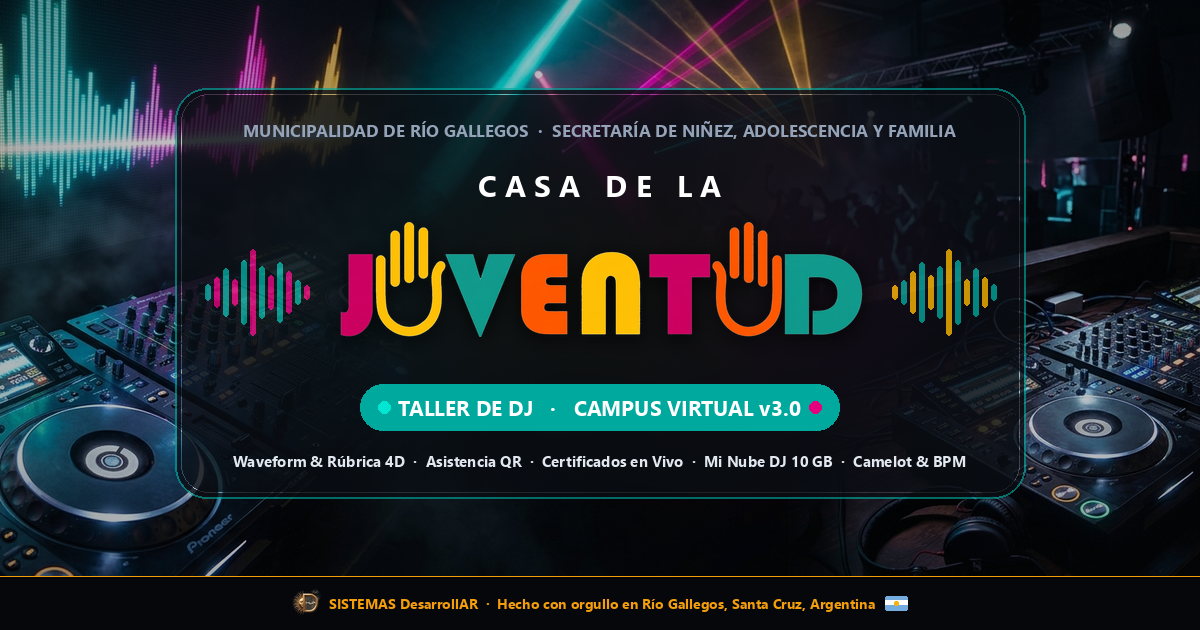
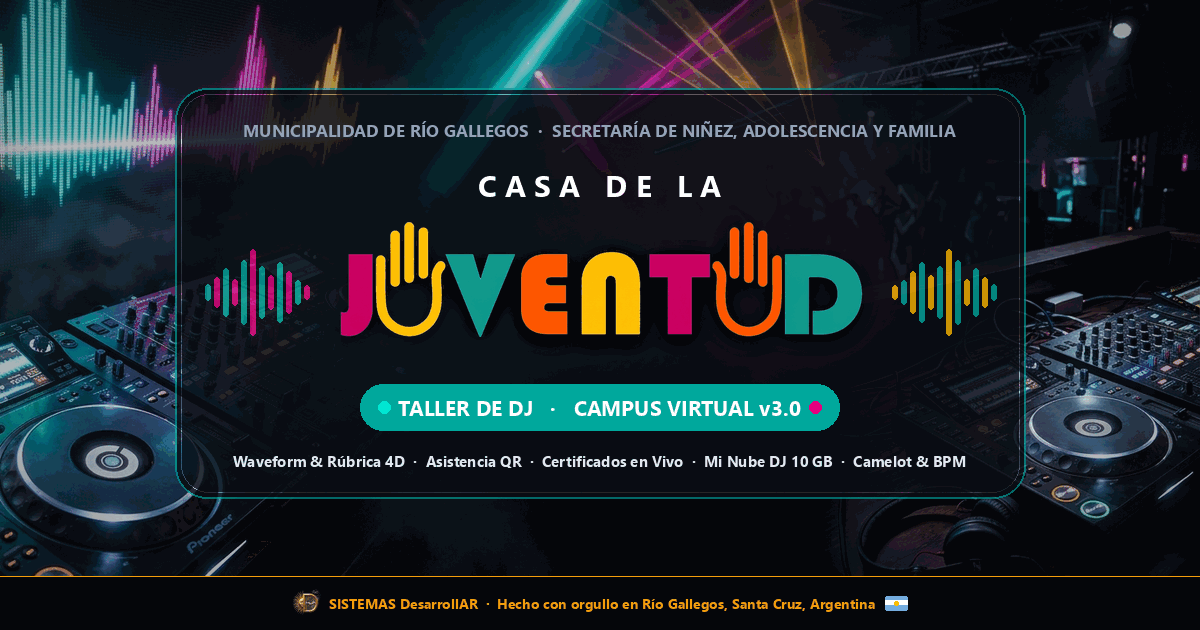
fix(og): compress og-whatsapp-campus.jpg to 126KB under WhatsApp 300KB limit

diff --git a/campus.html b/campus.html
@@ -10,15 +10,16 @@
 <meta property="og:title" content="🎧 Campus Virtual v3.0 · Taller de DJ — Casa de la Juventud">
 <meta property="og:description" content="Plataforma LMS con Waveform & Rúbrica 4D, Asistencia QR en vivo, Certificados Oficiales, Mi Nube DJ (10 GB) y Rueda de Camelot.">
 <meta property="og:url" content="https://cursodj.desarrollar.online/campus">
-<meta property="og:image" content="https://cursodj.desarrollar.online/og-whatsapp-campus.png">
-<meta property="og:image:secure_url" content="https://cursodj.desarrollar.online/og-whatsapp-campus.png">
-<meta property="og:image:type" content="image/png">
+<meta property="og:image" content="https://cursodj.desarrollar.online/og-whatsapp-campus.jpg">
+<meta property="og:image:secure_url" content="https://cursodj.desarrollar.online/og-whatsapp-campus.jpg">
+<meta property="og:image:type" content="image/jpeg">
 <meta property="og:image:width" content="1200">
 <meta property="og:image:height" content="630">
+<link rel="image_src" href="https://cursodj.desarrollar.online/og-whatsapp-campus.jpg">
 <meta name="twitter:card" content="summary_large_image">
 <meta name="twitter:title" content="🎧 Campus Virtual v3.0 · Taller de DJ — Casa de la Juventud">
 <meta name="twitter:description" content="Plataforma LMS con Waveform & Rúbrica 4D, Asistencia QR en vivo, Certificados Oficiales, Mi Nube DJ (10 GB) y Rueda de Camelot.">
-<meta name="twitter:image" content="https://cursodj.desarrollar.online/og-whatsapp-campus.png">
+<meta name="twitter:image" content="https://cursodj.desarrollar.online/og-whatsapp-campus.jpg">
 <script src="https://cdn.tailwindcss.com"></script>
 <link href="https://fonts.googleapis.com/css2?family=Fredoka:wght@500;600;700&family=Outfit:wght@300;400;500;600;800&family=JetBrains+Mono&display=swap" rel="stylesheet">
 <style>

diff --git a/docs/campus.html b/docs/campus.html
@@ -10,15 +10,16 @@
 <meta property="og:title" content="🎧 Campus Virtual v3.0 · Taller de DJ — Casa de la Juventud">
 <meta property="og:description" content="Plataforma LMS con Waveform & Rúbrica 4D, Asistencia QR en vivo, Certificados Oficiales, Mi Nube DJ (10 GB) y Rueda de Camelot.">
 <meta property="og:url" content="https://cursodj.desarrollar.online/campus">
-<meta property="og:image" content="https://cursodj.desarrollar.online/og-whatsapp-campus.png">
-<meta property="og:image:secure_url" content="https://cursodj.desarrollar.online/og-whatsapp-campus.png">
-<meta property="og:image:type" content="image/png">
+<meta property="og:image" content="https://cursodj.desarrollar.online/og-whatsapp-campus.jpg">
+<meta property="og:image:secure_url" content="https://cursodj.desarrollar.online/og-whatsapp-campus.jpg">
+<meta property="og:image:type" content="image/jpeg">
 <meta property="og:image:width" content="1200">
 <meta property="og:image:height" content="630">
+<link rel="image_src" href="https://cursodj.desarrollar.online/og-whatsapp-campus.jpg">
 <meta name="twitter:card" content="summary_large_image">
 <meta name="twitter:title" content="🎧 Campus Virtual v3.0 · Taller de DJ — Casa de la Juventud">
 <meta name="twitter:description" content="Plataforma LMS con Waveform & Rúbrica 4D, Asistencia QR en vivo, Certificados Oficiales, Mi Nube DJ (10 GB) y Rueda de Camelot.">
-<meta name="twitter:image" content="https://cursodj.desarrollar.online/og-whatsapp-campus.png">
+<meta name="twitter:image" content="https://cursodj.desarrollar.online/og-whatsapp-campus.jpg">
 <script src="https://cdn.tailwindcss.com"></script>
 <link href="https://fonts.googleapis.com/css2?family=Fredoka:wght@500;600;700&family=Outfit:wght@300;400;500;600;800&family=JetBrains+Mono&display=swap" rel="stylesheet">
 <style>

diff --git a/public/campus.html b/public/campus.html
@@ -10,15 +10,16 @@
 <meta property="og:title" content="🎧 Campus Virtual v3.0 · Taller de DJ — Casa de la Juventud">
 <meta property="og:description" content="Plataforma LMS con Waveform & Rúbrica 4D, Asistencia QR en vivo, Certificados Oficiales, Mi Nube DJ (10 GB) y Rueda de Camelot.">
 <meta property="og:url" content="https://cursodj.desarrollar.online/campus">
-<meta property="og:image" content="https://cursodj.desarrollar.online/og-whatsapp-campus.png">
-<meta property="og:image:secure_url" content="https://cursodj.desarrollar.online/og-whatsapp-campus.png">
-<meta property="og:image:type" content="image/png">
+<meta property="og:image" content="https://cursodj.desarrollar.online/og-whatsapp-campus.jpg">
+<meta property="og:image:secure_url" content="https://cursodj.desarrollar.online/og-whatsapp-campus.jpg">
+<meta property="og:image:type" content="image/jpeg">
 <meta property="og:image:width" content="1200">
 <meta property="og:image:height" content="630">
+<link rel="image_src" href="https://cursodj.desarrollar.online/og-whatsapp-campus.jpg">
 <meta name="twitter:card" content="summary_large_image">
 <meta name="twitter:title" content="🎧 Campus Virtual v3.0 · Taller de DJ — Casa de la Juventud">
 <meta name="twitter:description" content="Plataforma LMS con Waveform & Rúbrica 4D, Asistencia QR en vivo, Certificados Oficiales, Mi Nube DJ (10 GB) y Rueda de Camelot.">
-<meta name="twitter:image" content="https://cursodj.desarrollar.online/og-whatsapp-campus.png">
+<meta name="twitter:image" content="https://cursodj.desarrollar.online/og-whatsapp-campus.jpg">
 <script src="https://cdn.tailwindcss.com"></script>
 <link href="https://fonts.googleapis.com/css2?family=Fredoka:wght@500;600;700&family=Outfit:wght@300;400;500;600;800&family=JetBrains+Mono&display=swap" rel="stylesheet">
 <style>

diff --git a/publish/campus.html b/publish/campus.html
@@ -10,15 +10,16 @@
 <meta property="og:title" content="🎧 Campus Virtual v3.0 · Taller de DJ — Casa de la Juventud">
 <meta property="og:description" content="Plataforma LMS con Waveform & Rúbrica 4D, Asistencia QR en vivo, Certificados Oficiales, Mi Nube DJ (10 GB) y Rueda de Camelot.">
 <meta property="og:url" content="https://cursodj.desarrollar.online/campus">
-<meta property="og:image" content="https://cursodj.desarrollar.online/og-whatsapp-campus.png">
-<meta property="og:image:secure_url" content="https://cursodj.desarrollar.online/og-whatsapp-campus.png">
-<meta property="og:image:type" content="image/png">
+<meta property="og:image" content="https://cursodj.desarrollar.online/og-whatsapp-campus.jpg">
+<meta property="og:image:secure_url" content="https://cursodj.desarrollar.online/og-whatsapp-campus.jpg">
+<meta property="og:image:type" content="image/jpeg">
 <meta property="og:image:width" content="1200">
 <meta property="og:image:height" content="630">
+<link rel="image_src" href="https://cursodj.desarrollar.online/og-whatsapp-campus.jpg">
 <meta name="twitter:card" content="summary_large_image">
 <meta name="twitter:title" content="🎧 Campus Virtual v3.0 · Taller de DJ — Casa de la Juventud">
 <meta name="twitter:description" content="Plataforma LMS con Waveform & Rúbrica 4D, Asistencia QR en vivo, Certificados Oficiales, Mi Nube DJ (10 GB) y Rueda de Camelot.">
-<meta name="twitter:image" content="https://cursodj.desarrollar.online/og-whatsapp-campus.png">
+<meta name="twitter:image" content="https://cursodj.desarrollar.online/og-whatsapp-campus.jpg">
 <script src="https://cdn.tailwindcss.com"></script>
 <link href="https://fonts.googleapis.com/css2?family=Fredoka:wght@500;600;700&family=Outfit:wght@300;400;500;600;800&family=JetBrains+Mono&display=swap" rel="stylesheet">
 <style>

diff --git a/docs/index.html b/docs/index.html
@@ -10,15 +10,16 @@
 <meta property="og:title" content="🎧 Taller de DJ · Casa de la Juventud — Río Gallegos">
 <meta property="og:description" content="Formación gratuita en mezcla digital, técnica y criterio musical + Campus Virtual Universitario v3.0.">
 <meta property="og:url" content="https://cursodj.desarrollar.online">
-<meta property="og:image" content="https://cursodj.desarrollar.online/og-whatsapp-campus.png">
-<meta property="og:image:secure_url" content="https://cursodj.desarrollar.online/og-whatsapp-campus.png">
-<meta property="og:image:type" content="image/png">
+<meta property="og:image" content="https://cursodj.desarrollar.online/og-whatsapp-campus.jpg">
+<meta property="og:image:secure_url" content="https://cursodj.desarrollar.online/og-whatsapp-campus.jpg">
+<meta property="og:image:type" content="image/jpeg">
 <meta property="og:image:width" content="1200">
 <meta property="og:image:height" content="630">
+<link rel="image_src" href="https://cursodj.desarrollar.online/og-whatsapp-campus.jpg">
 <meta name="twitter:card" content="summary_large_image">
 <meta name="twitter:title" content="🎧 Taller de DJ · Casa de la Juventud — Río Gallegos">
 <meta name="twitter:description" content="Formación gratuita en mezcla digital, técnica y criterio musical + Campus Virtual Universitario v3.0.">
-<meta name="twitter:image" content="https://cursodj.desarrollar.online/og-whatsapp-campus.png">
+<meta name="twitter:image" content="https://cursodj.desarrollar.online/og-whatsapp-campus.jpg">
 <script src="https://cdn.tailwindcss.com"></script>
 <script src="https://cdn.jsdelivr.net/npm/chart.js"></script>
 <link href="https://fonts.googleapis.com/css2?family=Bebas+Neue&family=Fredoka:wght@500;600;700&family=Outfit:wght@300;400;600;800&family=JetBrains+Mono&display=swap" rel="stylesheet">

diff --git a/index.html b/index.html
@@ -10,15 +10,16 @@
 <meta property="og:title" content="🎧 Taller de DJ · Casa de la Juventud — Río Gallegos">
 <meta property="og:description" content="Formación gratuita en mezcla digital, técnica y criterio musical + Campus Virtual Universitario v3.0.">
 <meta property="og:url" content="https://cursodj.desarrollar.online">
-<meta property="og:image" content="https://cursodj.desarrollar.online/og-whatsapp-campus.png">
-<meta property="og:image:secure_url" content="https://cursodj.desarrollar.online/og-whatsapp-campus.png">
-<meta property="og:image:type" content="image/png">
+<meta property="og:image" content="https://cursodj.desarrollar.online/og-whatsapp-campus.jpg">
+<meta property="og:image:secure_url" content="https://cursodj.desarrollar.online/og-whatsapp-campus.jpg">
+<meta property="og:image:type" content="image/jpeg">
 <meta property="og:image:width" content="1200">
 <meta property="og:image:height" content="630">
+<link rel="image_src" href="https://cursodj.desarrollar.online/og-whatsapp-campus.jpg">
 <meta name="twitter:card" content="summary_large_image">
 <meta name="twitter:title" content="🎧 Taller de DJ · Casa de la Juventud — Río Gallegos">
 <meta name="twitter:description" content="Formación gratuita en mezcla digital, técnica y criterio musical + Campus Virtual Universitario v3.0.">
-<meta name="twitter:image" content="https://cursodj.desarrollar.online/og-whatsapp-campus.png">
+<meta name="twitter:image" content="https://cursodj.desarrollar.online/og-whatsapp-campus.jpg">
 <script src="https://cdn.tailwindcss.com"></script>
 <script src="https://cdn.jsdelivr.net/npm/chart.js"></script>
 <link href="https://fonts.googleapis.com/css2?family=Bebas+Neue&family=Fredoka:wght@500;600;700&family=Outfit:wght@300;400;600;800&family=JetBrains+Mono&display=swap" rel="stylesheet">

diff --git a/public/index.html b/public/index.html
@@ -10,15 +10,16 @@
 <meta property="og:title" content="🎧 Taller de DJ · Casa de la Juventud — Río Gallegos">
 <meta property="og:description" content="Formación gratuita en mezcla digital, técnica y criterio musical + Campus Virtual Universitario v3.0.">
 <meta property="og:url" content="https://cursodj.desarrollar.online">
-<meta property="og:image" content="https://cursodj.desarrollar.online/og-whatsapp-campus.png">
-<meta property="og:image:secure_url" content="https://cursodj.desarrollar.online/og-whatsapp-campus.png">
-<meta property="og:image:type" content="image/png">
+<meta property="og:image" content="https://cursodj.desarrollar.online/og-whatsapp-campus.jpg">
+<meta property="og:image:secure_url" content="https://cursodj.desarrollar.online/og-whatsapp-campus.jpg">
+<meta property="og:image:type" content="image/jpeg">
 <meta property="og:image:width" content="1200">
 <meta property="og:image:height" content="630">
+<link rel="image_src" href="https://cursodj.desarrollar.online/og-whatsapp-campus.jpg">
 <meta name="twitter:card" content="summary_large_image">
 <meta name="twitter:title" content="🎧 Taller de DJ · Casa de la Juventud — Río Gallegos">
 <meta name="twitter:description" content="Formación gratuita en mezcla digital, técnica y criterio musical + Campus Virtual Universitario v3.0.">
-<meta name="twitter:image" content="https://cursodj.desarrollar.online/og-whatsapp-campus.png">
+<meta name="twitter:image" content="https://cursodj.desarrollar.online/og-whatsapp-campus.jpg">
 <script src="https://cdn.tailwindcss.com"></script>
 <script src="https://cdn.jsdelivr.net/npm/chart.js"></script>
 <link href="https://fonts.googleapis.com/css2?family=Bebas+Neue&family=Fredoka:wght@500;600;700&family=Outfit:wght@300;400;600;800&family=JetBrains+Mono&display=swap" rel="stylesheet">

diff --git a/publish/index.html b/publish/index.html
@@ -10,15 +10,16 @@
 <meta property="og:title" content="🎧 Taller de DJ · Casa de la Juventud — Río Gallegos">
 <meta property="og:description" content="Formación gratuita en mezcla digital, técnica y criterio musical + Campus Virtual Universitario v3.0.">
 <meta property="og:url" content="https://cursodj.desarrollar.online">
-<meta property="og:image" content="https://cursodj.desarrollar.online/og-whatsapp-campus.png">
-<meta property="og:image:secure_url" content="https://cursodj.desarrollar.online/og-whatsapp-campus.png">
-<meta property="og:image:type" content="image/png">
+<meta property="og:image" content="https://cursodj.desarrollar.online/og-whatsapp-campus.jpg">
+<meta property="og:image:secure_url" content="https://cursodj.desarrollar.online/og-whatsapp-campus.jpg">
+<meta property="og:image:type" content="image/jpeg">
 <meta property="og:image:width" content="1200">
 <meta property="og:image:height" content="630">
+<link rel="image_src" href="https://cursodj.desarrollar.online/og-whatsapp-campus.jpg">
 <meta name="twitter:card" content="summary_large_image">
 <meta name="twitter:title" content="🎧 Taller de DJ · Casa de la Juventud — Río Gallegos">
 <meta name="twitter:description" content="Formación gratuita en mezcla digital, técnica y criterio musical + Campus Virtual Universitario v3.0.">
-<meta name="twitter:image" content="https://cursodj.desarrollar.online/og-whatsapp-campus.png">
+<meta name="twitter:image" content="https://cursodj.desarrollar.online/og-whatsapp-campus.jpg">
 <script src="https://cdn.tailwindcss.com"></script>
 <script src="https://cdn.jsdelivr.net/npm/chart.js"></script>
 <link href="https://fonts.googleapis.com/css2?family=Bebas+Neue&family=Fredoka:wght@500;600;700&family=Outfit:wght@300;400;600;800&family=JetBrains+Mono&display=swap" rel="stylesheet">

diff --git a/docs/verificar.html b/docs/verificar.html
@@ -4,6 +4,19 @@
 <meta charset="UTF-8">
 <meta name="viewport" content="width=device-width, initial-scale=1.0">
 <title>Verificación Oficial de Certificados · Taller de DJ · Río Gallegos</title>
+<meta property="og:type" content="website">
+<meta property="og:site_name" content="Casa de la Juventud · Municipalidad de Río Gallegos">
+<meta property="og:title" content="🎧 Campus Virtual v3.0 · Taller de DJ — Casa de la Juventud">
+<meta property="og:description" content="Plataforma LMS con Waveform & Rúbrica 4D, Asistencia QR en vivo, Certificados Oficiales, Mi Nube DJ (10 GB) y Rueda de Camelot.">
+<meta property="og:url" content="https://cursodj.desarrollar.online/campus">
+<meta property="og:image" content="https://cursodj.desarrollar.online/og-whatsapp-campus.jpg">
+<meta property="og:image:secure_url" content="https://cursodj.desarrollar.online/og-whatsapp-campus.jpg">
+<meta property="og:image:type" content="image/jpeg">
+<meta property="og:image:width" content="1200">
+<meta property="og:image:height" content="630">
+<link rel="image_src" href="https://cursodj.desarrollar.online/og-whatsapp-campus.jpg">
+<meta name="twitter:card" content="summary_large_image">
+<meta name="twitter:image" content="https://cursodj.desarrollar.online/og-whatsapp-campus.jpg">
 <script src="https://cdn.tailwindcss.com"></script>
 <link href="https://fonts.googleapis.com/css2?family=Bebas+Neue&family=Fredoka:wght@500;600;700&family=Outfit:wght@300;400;500;600;700;800&family=JetBrains+Mono:wght@400;600&display=swap" rel="stylesheet">
 <style>

diff --git a/public/verificar.html b/public/verificar.html
@@ -4,6 +4,19 @@
 <meta charset="UTF-8">
 <meta name="viewport" content="width=device-width, initial-scale=1.0">
 <title>Verificación Oficial de Certificados · Taller de DJ · Río Gallegos</title>
+<meta property="og:type" content="website">
+<meta property="og:site_name" content="Casa de la Juventud · Municipalidad de Río Gallegos">
+<meta property="og:title" content="🎧 Campus Virtual v3.0 · Taller de DJ — Casa de la Juventud">
+<meta property="og:description" content="Plataforma LMS con Waveform & Rúbrica 4D, Asistencia QR en vivo, Certificados Oficiales, Mi Nube DJ (10 GB) y Rueda de Camelot.">
+<meta property="og:url" content="https://cursodj.desarrollar.online/campus">
+<meta property="og:image" content="https://cursodj.desarrollar.online/og-whatsapp-campus.jpg">
+<meta property="og:image:secure_url" content="https://cursodj.desarrollar.online/og-whatsapp-campus.jpg">
+<meta property="og:image:type" content="image/jpeg">
+<meta property="og:image:width" content="1200">
+<meta property="og:image:height" content="630">
+<link rel="image_src" href="https://cursodj.desarrollar.online/og-whatsapp-campus.jpg">
+<meta name="twitter:card" content="summary_large_image">
+<meta name="twitter:image" content="https://cursodj.desarrollar.online/og-whatsapp-campus.jpg">
 <script src="https://cdn.tailwindcss.com"></script>
 <link href="https://fonts.googleapis.com/css2?family=Bebas+Neue&family=Fredoka:wght@500;600;700&family=Outfit:wght@300;400;500;600;700;800&family=JetBrains+Mono:wght@400;600&display=swap" rel="stylesheet">
 <style>

diff --git a/publish/verificar.html b/publish/verificar.html
@@ -4,6 +4,19 @@
 <meta charset="UTF-8">
 <meta name="viewport" content="width=device-width, initial-scale=1.0">
 <title>Verificación Oficial de Certificados · Taller de DJ · Río Gallegos</title>
+<meta property="og:type" content="website">
+<meta property="og:site_name" content="Casa de la Juventud · Municipalidad de Río Gallegos">
+<meta property="og:title" content="🎧 Campus Virtual v3.0 · Taller de DJ — Casa de la Juventud">
+<meta property="og:description" content="Plataforma LMS con Waveform & Rúbrica 4D, Asistencia QR en vivo, Certificados Oficiales, Mi Nube DJ (10 GB) y Rueda de Camelot.">
+<meta property="og:url" content="https://cursodj.desarrollar.online/campus">
+<meta property="og:image" content="https://cursodj.desarrollar.online/og-whatsapp-campus.jpg">
+<meta property="og:image:secure_url" content="https://cursodj.desarrollar.online/og-whatsapp-campus.jpg">
+<meta property="og:image:type" content="image/jpeg">
+<meta property="og:image:width" content="1200">
+<meta property="og:image:height" content="630">
+<link rel="image_src" href="https://cursodj.desarrollar.online/og-whatsapp-campus.jpg">
+<meta name="twitter:card" content="summary_large_image">
+<meta name="twitter:image" content="https://cursodj.desarrollar.online/og-whatsapp-campus.jpg">
 <script src="https://cdn.tailwindcss.com"></script>
 <link href="https://fonts.googleapis.com/css2?family=Bebas+Neue&family=Fredoka:wght@500;600;700&family=Outfit:wght@300;400;500;600;700;800&family=JetBrains+Mono:wght@400;600&display=swap" rel="stylesheet">
 <style>

diff --git a/verificar.html b/verificar.html
@@ -4,6 +4,19 @@
 <meta charset="UTF-8">
 <meta name="viewport" content="width=device-width, initial-scale=1.0">
 <title>Verificación Oficial de Certificados · Taller de DJ · Río Gallegos</title>
+<meta property="og:type" content="website">
+<meta property="og:site_name" content="Casa de la Juventud · Municipalidad de Río Gallegos">
+<meta property="og:title" content="🎧 Campus Virtual v3.0 · Taller de DJ — Casa de la Juventud">
+<meta property="og:description" content="Plataforma LMS con Waveform & Rúbrica 4D, Asistencia QR en vivo, Certificados Oficiales, Mi Nube DJ (10 GB) y Rueda de Camelot.">
+<meta property="og:url" content="https://cursodj.desarrollar.online/campus">
+<meta property="og:image" content="https://cursodj.desarrollar.online/og-whatsapp-campus.jpg">
+<meta property="og:image:secure_url" content="https://cursodj.desarrollar.online/og-whatsapp-campus.jpg">
+<meta property="og:image:type" content="image/jpeg">
+<meta property="og:image:width" content="1200">
+<meta property="og:image:height" content="630">
+<link rel="image_src" href="https://cursodj.desarrollar.online/og-whatsapp-campus.jpg">
+<meta name="twitter:card" content="summary_large_image">
+<meta name="twitter:image" content="https://cursodj.desarrollar.online/og-whatsapp-campus.jpg">
 <script src="https://cdn.tailwindcss.com"></script>
 <link href="https://fonts.googleapis.com/css2?family=Bebas+Neue&family=Fredoka:wght@500;600;700&family=Outfit:wght@300;400;500;600;700;800&family=JetBrains+Mono:wght@400;600&display=swap" rel="stylesheet">
 <style>
